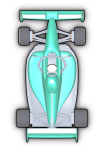
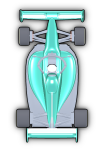
2D: bake the gloss into the car sprites instead of faking it
The owner asked for shine on the cars, and specifically for it to come
from the render rather than an overlay drawn on top in game. This is that.

The old rig was ambient 0.65 plus one overhead key, which is close to flat
illumination: nothing on the car was ever dark, so nothing had form. Now:

- ambient down to 0.13, so shadow exists at all;
- the key is a mirrored PAIR raking in from each flank at ~30 deg rather
  than one light overhead. An overhead key floods the flat upper surfaces
  and clips them toward white; a raking one only catches the curve of each
  shoulder, which is what produces a bright streak per side with a dark
  crease down the spine;
- a broad cool fill straight down so white livery panels do not sink into
  blue-grey where the raking keys never reach;
- a ring of four near-horizontal rim lights, which under a top-down camera
  only hit sideways-facing normals -- i.e. exactly the silhouette -- so the
  car keeps a bright lip against dark tarmac.

Every group is mirrored or a full ring on purpose: the sprite is a bitmap
the game rotates, so an asymmetric rig would read as a sun stuck to the
car's flank, swinging round with it through every corner.

The environment was a smooth 64px gradient, which a clearcoat reflects as
one flat wash -- the reason the old bake read as matte plastic. It is now a
512x256 equirect with actual light shapes in it, through PMREMGenerator,
plus the sRGB encoding the old code was missing. Material follows:
[…]

diff --git a/scripts/bake-car-sprites.js b/scripts/bake-car-sprites.js
@@ -19,12 +19,19 @@
  * How the sprite is built
  * ───────────────────────
  * An orthographic camera looks straight down (+Z of the model — its nose —
- * pointing screen-up) and renders the car once per driver, with the body
- * paint replaced by the exact clearcoat recipe madring-3d's Chassis.tsx uses
- * (MeshPhysicalMaterial, metalness 0.9, roughness 0.4, clearcoat 1.0,
- * clearcoatRoughness 0.03) tinted with that driver's CHAR_COLORS entry, under
- * the same sort of sky environment the overhead bake uses — clearcoat paint
- * is nothing but what it reflects.
+ * pointing screen-up) and renders the car once per driver, with the body paint
+ * replaced by the clearcoat recipe madring-3d's Chassis.tsx uses (a
+ * MeshPhysicalMaterial with clearcoat 1.0, following the MIT three.js
+ * webgl_materials_car example) tinted with that driver's CHAR_COLORS entry.
+ *
+ * The gloss is baked here rather than faked with an overlay in game.js, which
+ * means the shine follows the actual bodywork instead of sliding over it. Three
+ * things do the work, all detailed at their definitions below: a raking
+ * mirrored key pair that lays a specular streak down each shoulder, a ring of
+ * near-horizontal rim lights that keeps a bright lip on the silhouette against
+ * dark tarmac, and a procedural studio environment with real light shapes in it
+ * for the clearcoat to reflect — clearcoat paint is nothing but what it
+ * reflects, and a plain gradient sky reflects as one flat wash.
  *
  * A real F1 car is ~2.7× longer than wide; drawn honestly at a 38 px length
  * it would be 14 px wide and vanish on the aerial. The camera therefore
@@ -127,14 +134,22 @@ window.__ready = new Promise((resolve, reject) => {
         // ── material finishing, following madring-3d/src/models/vehicle/Chassis.tsx ──
         // The glb ships neutral Blender materials named body / accent / carbon /
         // tyre / glass / glow / rainlight; the finishing is done at load time.
-        const paint = new THREE.MeshPhysicalMaterial({
-            metalness: 0.9, roughness: 0.4, clearcoat: 1.0, clearcoatRoughness: 0.03,
-            envMapIntensity: 1,
-        });
-        const accentPaint = new THREE.MeshPhysicalMaterial({
-            metalness: 0.9, roughness: 0.4, clearcoat: 1.0, clearcoatRoughness: 0.03,
-            envMapIntensity: 1,
-        });
+        // Deliberately off Chassis.tsx's numbers, tuned by eye at 26×38 rather
+        // than at full 3D size:
+        //   · metalness 0.74, not 0.9 — a near-perfect metal has essentially no
+        //     diffuse term, so all its colour comes from tinted reflection and
+        //     it turns grey wherever it reflects nothing. 0.74 keeps enough
+        //     diffuse for the driver colour to stay identifiable at thumbnail
+        //     size, which matters more here than in the 3D view.
+        //   · roughness 0.22, not 0.4 — a tight highlight survives the 4×
+        //     downscale as a bright streak; a broad hazy one averages away to
+        //     a uniform pale wash, which is what the previous bake looked like.
+        //   · envMapIntensity 1.45 because the studio env below is mostly dim
+        //     with small bright lights in it, so it needs gaining up to bite.
+        const GLOSS = { metalness: 0.74, roughness: 0.22, clearcoat: 1.0,
+                        clearcoatRoughness: 0.02, envMapIntensity: 1.45 };
+        const paint = new THREE.MeshPhysicalMaterial(GLOSS);
+        const accentPaint = new THREE.MeshPhysicalMaterial(GLOSS);
         car.traverse(o => {
             if (!o.isMesh) return;
             const m = Array.isArray(o.material) ? o.material[0] : o.material;
@@ -152,14 +167,43 @@ window.__ready = new Promise((resolve, reject) => {
             }
         });
 
-        // ── lighting: mostly overhead, so the shading stays valid as the sprite rotates ──
-        scene.add(new THREE.AmbientLight(0xffffff, 0.65));
-        const key = new THREE.DirectionalLight(0xfff4e0, 0.9);
-        key.position.set(0.25, 1, 0.15).multiplyScalar(10);
-        scene.add(key);
-        const fill = new THREE.DirectionalLight(0xdfe8ff, 0.35);
-        fill.position.set(-0.3, 1, -0.2).multiplyScalar(10);
+        // ── lighting ──
+        // The sprite is a fixed bitmap that the game rotates with the car, so
+        // anything asymmetric left-to-right would read as a sun stuck to the
+        // car's flank, swinging round every corner. Every rig below is
+        // therefore mirrored about the car's centreline (or a full ring): the
+        // shading is directional in the ways that build form, and symmetric in
+        // the one axis that would give the trick away.
+        scene.add(new THREE.AmbientLight(0xffffff, 0.13));   // low: form needs somewhere dark to fall to
+
+        // Keys: a mirrored pair raking in from each flank at roughly 30°
+        // elevation. Low beats overhead here — an overhead key floods the flat
+        // upper surfaces evenly and clips them towards white (it bleached the
+        // wings in the first attempt), whereas a raking one only catches the
+        // curve of each shoulder, leaving a bright streak per side and a dark
+        // crease down the spine. That light/dark split is the whole difference
+        // between "rounded waxed volume" and "flat colour blob".
+        for (const sx of [1, -1]) {
+            const k = new THREE.DirectionalLight(0xfff6e6, 0.80);
+            k.position.set(sx * 1.0, 0.55, 0.28).multiplyScalar(10);
+            scene.add(k);
+        }
+        // Broad soft fill straight down, cool to contrast the warm keys, so the
+        // top surfaces and the white livery panels keep detail instead of going
+        // to a gloomy blue-grey where the raking keys never reach.
+        const fill = new THREE.DirectionalLight(0xdce9ff, 0.44);
+        fill.position.set(0, 1, 0).multiplyScalar(10);
         scene.add(fill);
+
+        // Rim ring: four near-horizontal lights. Under a top-down camera the
+        // only surfaces they hit are the ones whose normals point sideways —
+        // i.e. exactly the silhouette edge — so the car keeps a bright lip all
+        // the way round and stops merging into dark tarmac.
+        for (const [rx, rz] of [[1, 0], [-1, 0], [0, 1], [0, -1]]) {
+            const rim = new THREE.DirectionalLight(0xeaf2ff, 0.55);
+            rim.position.set(rx, 0.16, rz).multiplyScalar(10);
+            scene.add(rim);
+        }
 
         const renderer = new THREE.WebGLRenderer({ antialias: true, alpha: true, preserveDrawingBuffer: true });
         renderer.setPixelRatio(1);
@@ -168,17 +212,49 @@ window.__ready = new Promise((resolve, reject) => {
         renderer.toneMapping = THREE.NoToneMapping;
         renderer.setClearColor(0x000000, 0);
 
-        // Sky for the clearcoat and the metals to reflect — bright above,
-        // ground tone below, same idea as the overhead bake's environment.
+        // ── environment: a procedural studio, not just a sky ──
+        // Clearcoat paint is only ever as interesting as what it reflects, and
+        // a smooth top-to-bottom gradient reflects as one flat wash — which is
+        // exactly why the old bake looked like matte plastic. So the equirect
+        // gets real light sources painted into it: a zenith cap and two soft
+        // strip lights over the flanks, mirrored so the reflection stays
+        // symmetric under sprite rotation (see the lighting note above).
+        //
+        // Equirect convention in three.js: u = 0.5 + atan2(z, x)/2π (so +X is
+        // u=0.5 and −X is u=0/1) and v = 0 straight up, 0.5 at the horizon.
+        const EW = 512, EH = 256;
         const skyCv = document.createElement('canvas');
-        skyCv.width = 64; skyCv.height = 64;
+        skyCv.width = EW; skyCv.height = EH;
         const sctx = skyCv.getContext('2d');
-        const sg = sctx.createLinearGradient(0, 0, 0, 64);
-        sg.addColorStop(0.00, '#cfe2f8'); sg.addColorStop(0.48, '#eef4fb');
-        sg.addColorStop(0.52, '#8a8274'); sg.addColorStop(1.00, '#5c554a');
-        sctx.fillStyle = sg; sctx.fillRect(0, 0, 64, 64);
+        // Base sky deliberately dimmer than the strips: the contrast between
+        // the two is the reflection, and a bright base would erase it.
+        const sg = sctx.createLinearGradient(0, 0, 0, EH);
+        sg.addColorStop(0.00, '#9db6d2'); sg.addColorStop(0.46, '#c9d8e8');
+        sg.addColorStop(0.50, '#3b3831'); sg.addColorStop(1.00, '#22201c');
+        sctx.fillStyle = sg; sctx.fillRect(0, 0, EW, EH);
+        const blob = (cx, cy, rx, ry, a) => {          // soft elliptical light
+            sctx.save();
+            sctx.translate(cx, cy); sctx.scale(rx, ry);
+            const g = sctx.createRadialGradient(0, 0, 0, 0, 0, 1);
+            g.addColorStop(0, `rgba(255,255,255,${a})`);
+            g.addColorStop(0.55, `rgba(255,253,246,${a * 0.55})`);
+            g.addColorStop(1, 'rgba(255,255,255,0)');
+            sctx.fillStyle = g; sctx.fillRect(-1, -1, 2, 2);
+            sctx.restore();
+        };
+        // Zenith cap kept weak. It is what every flat upward surface — the
+        // wings, mostly — reflects straight back at a top-down camera, so any
+        // brighter and the wings bleach to white and stop reading as the
+        // driver's colour. The flank strips carry the actual gloss: they are
+        // reflected by the curved shoulders, at the grazing angles where a
+        // clearcoat is most mirror-like.
+        blob(EW * 0.5, EH * 0.02, EW * 0.55, EH * 0.16, 0.35);   // zenith cap
+        for (const u of [0.0, 0.5, 1.0]) {                       // ±X flank strips (u=0 wraps, so paint both ends)
+            blob(EW * u, EH * 0.20, EW * 0.16, EH * 0.13, 0.80);
+        }
         const skyTex = new THREE.CanvasTexture(skyCv);
         skyTex.mapping = THREE.EquirectangularReflectionMapping;
+        skyTex.encoding = THREE.sRGBEncoding;   // canvas paints in sRGB; without this the env reads far too dark
         const pmrem = new THREE.PMREMGenerator(renderer);
         scene.environment = pmrem.fromEquirectangular(skyTex).texture;
 
